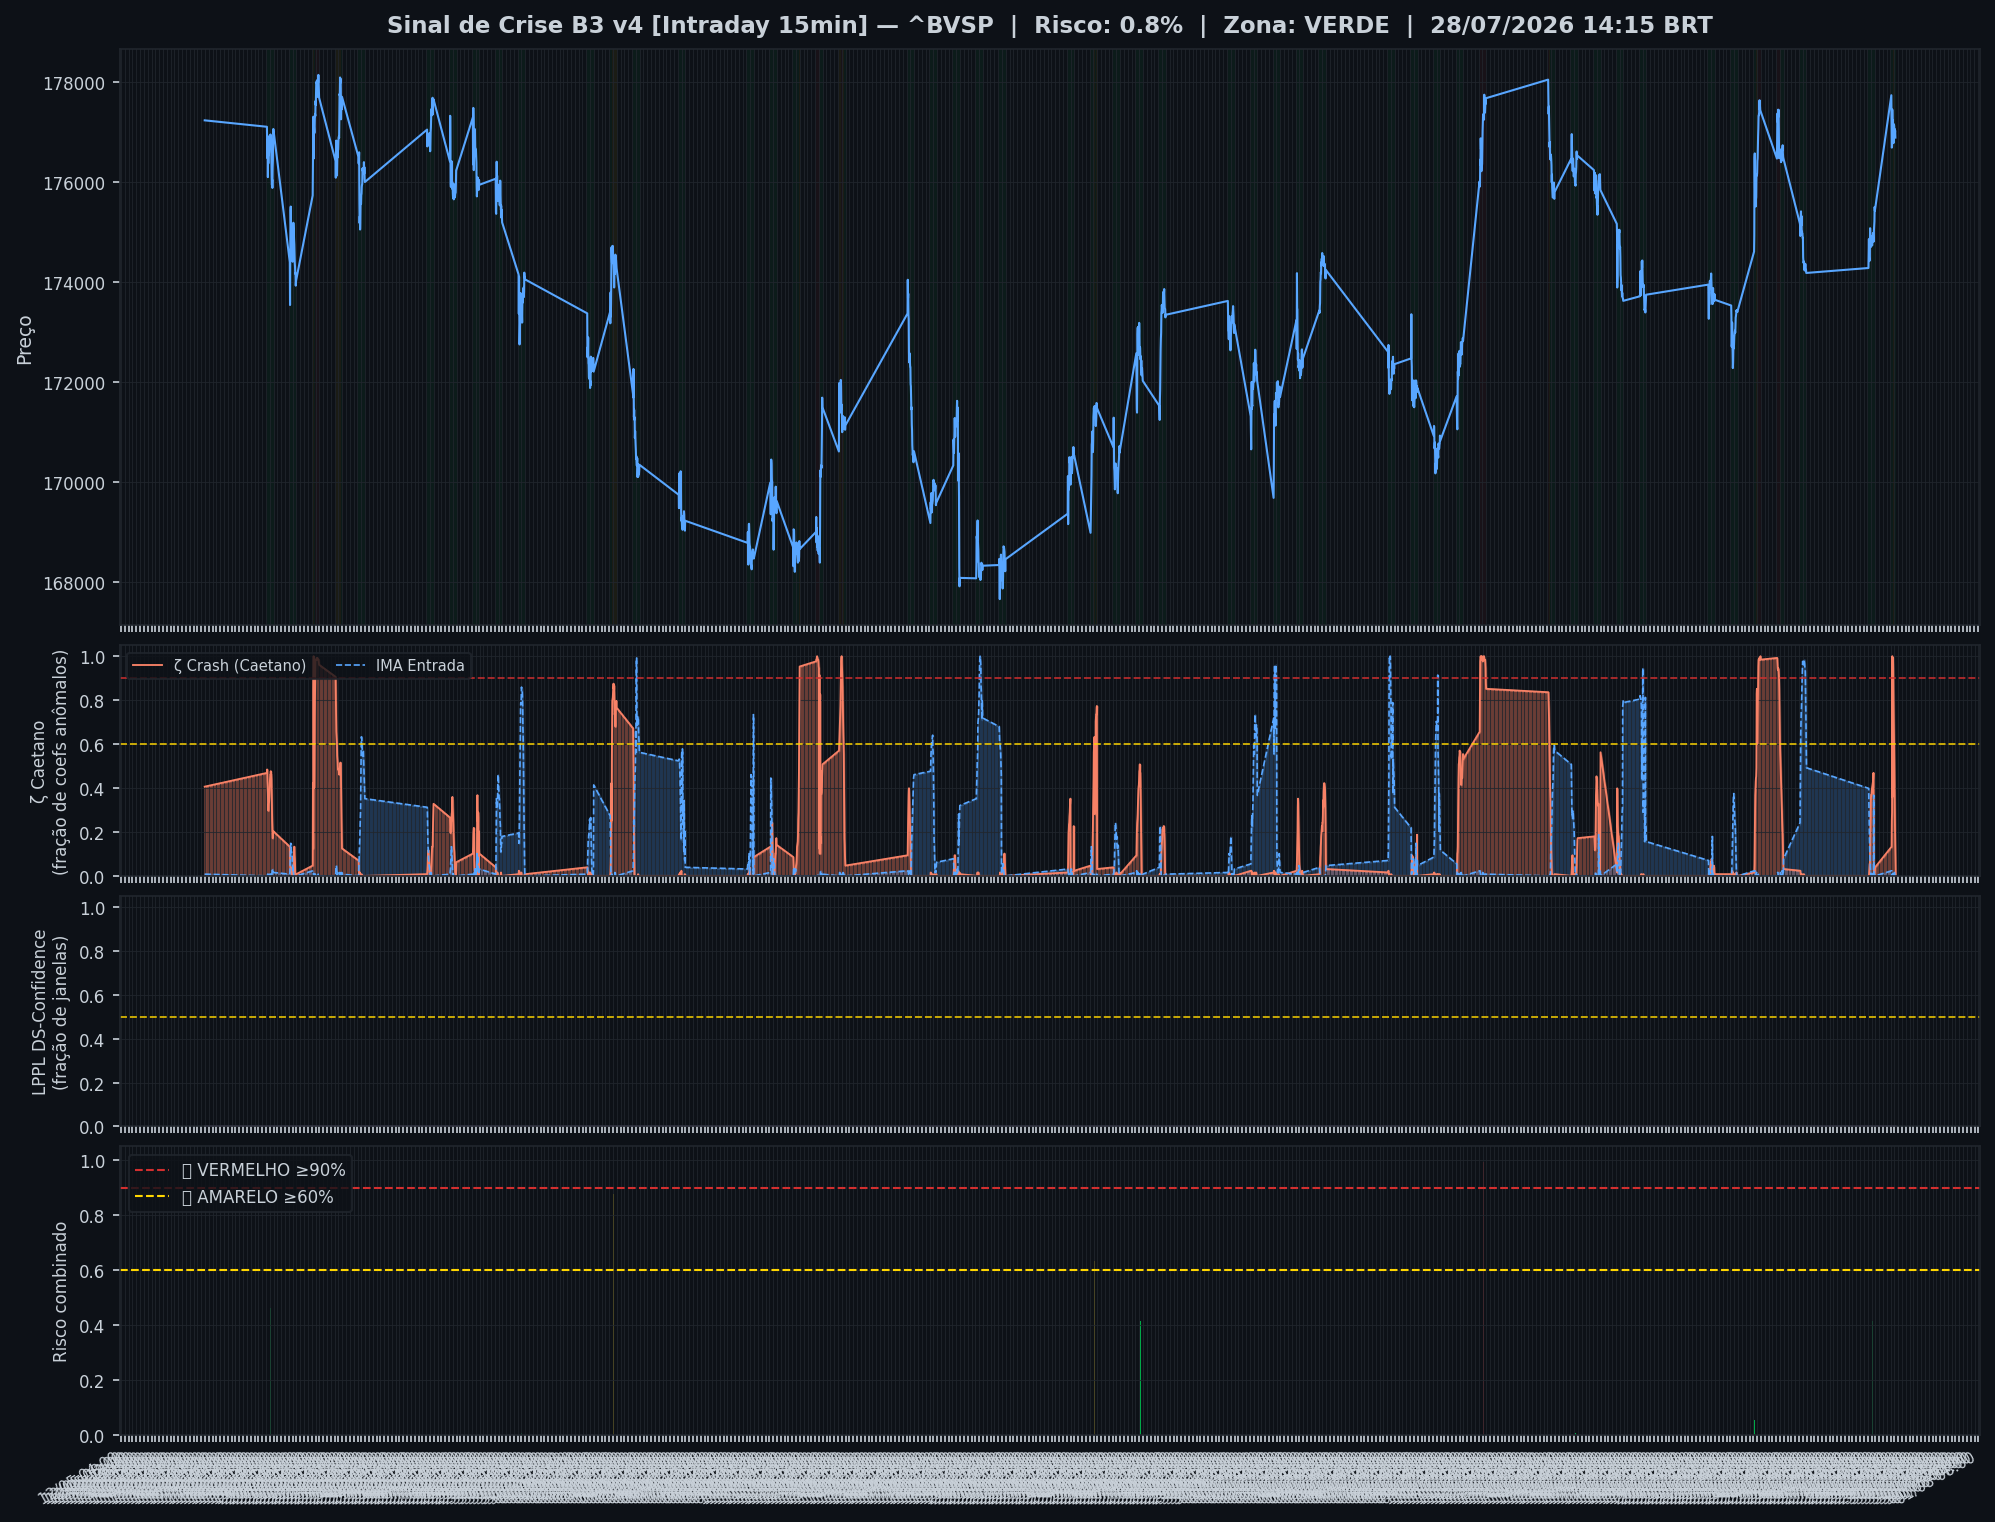
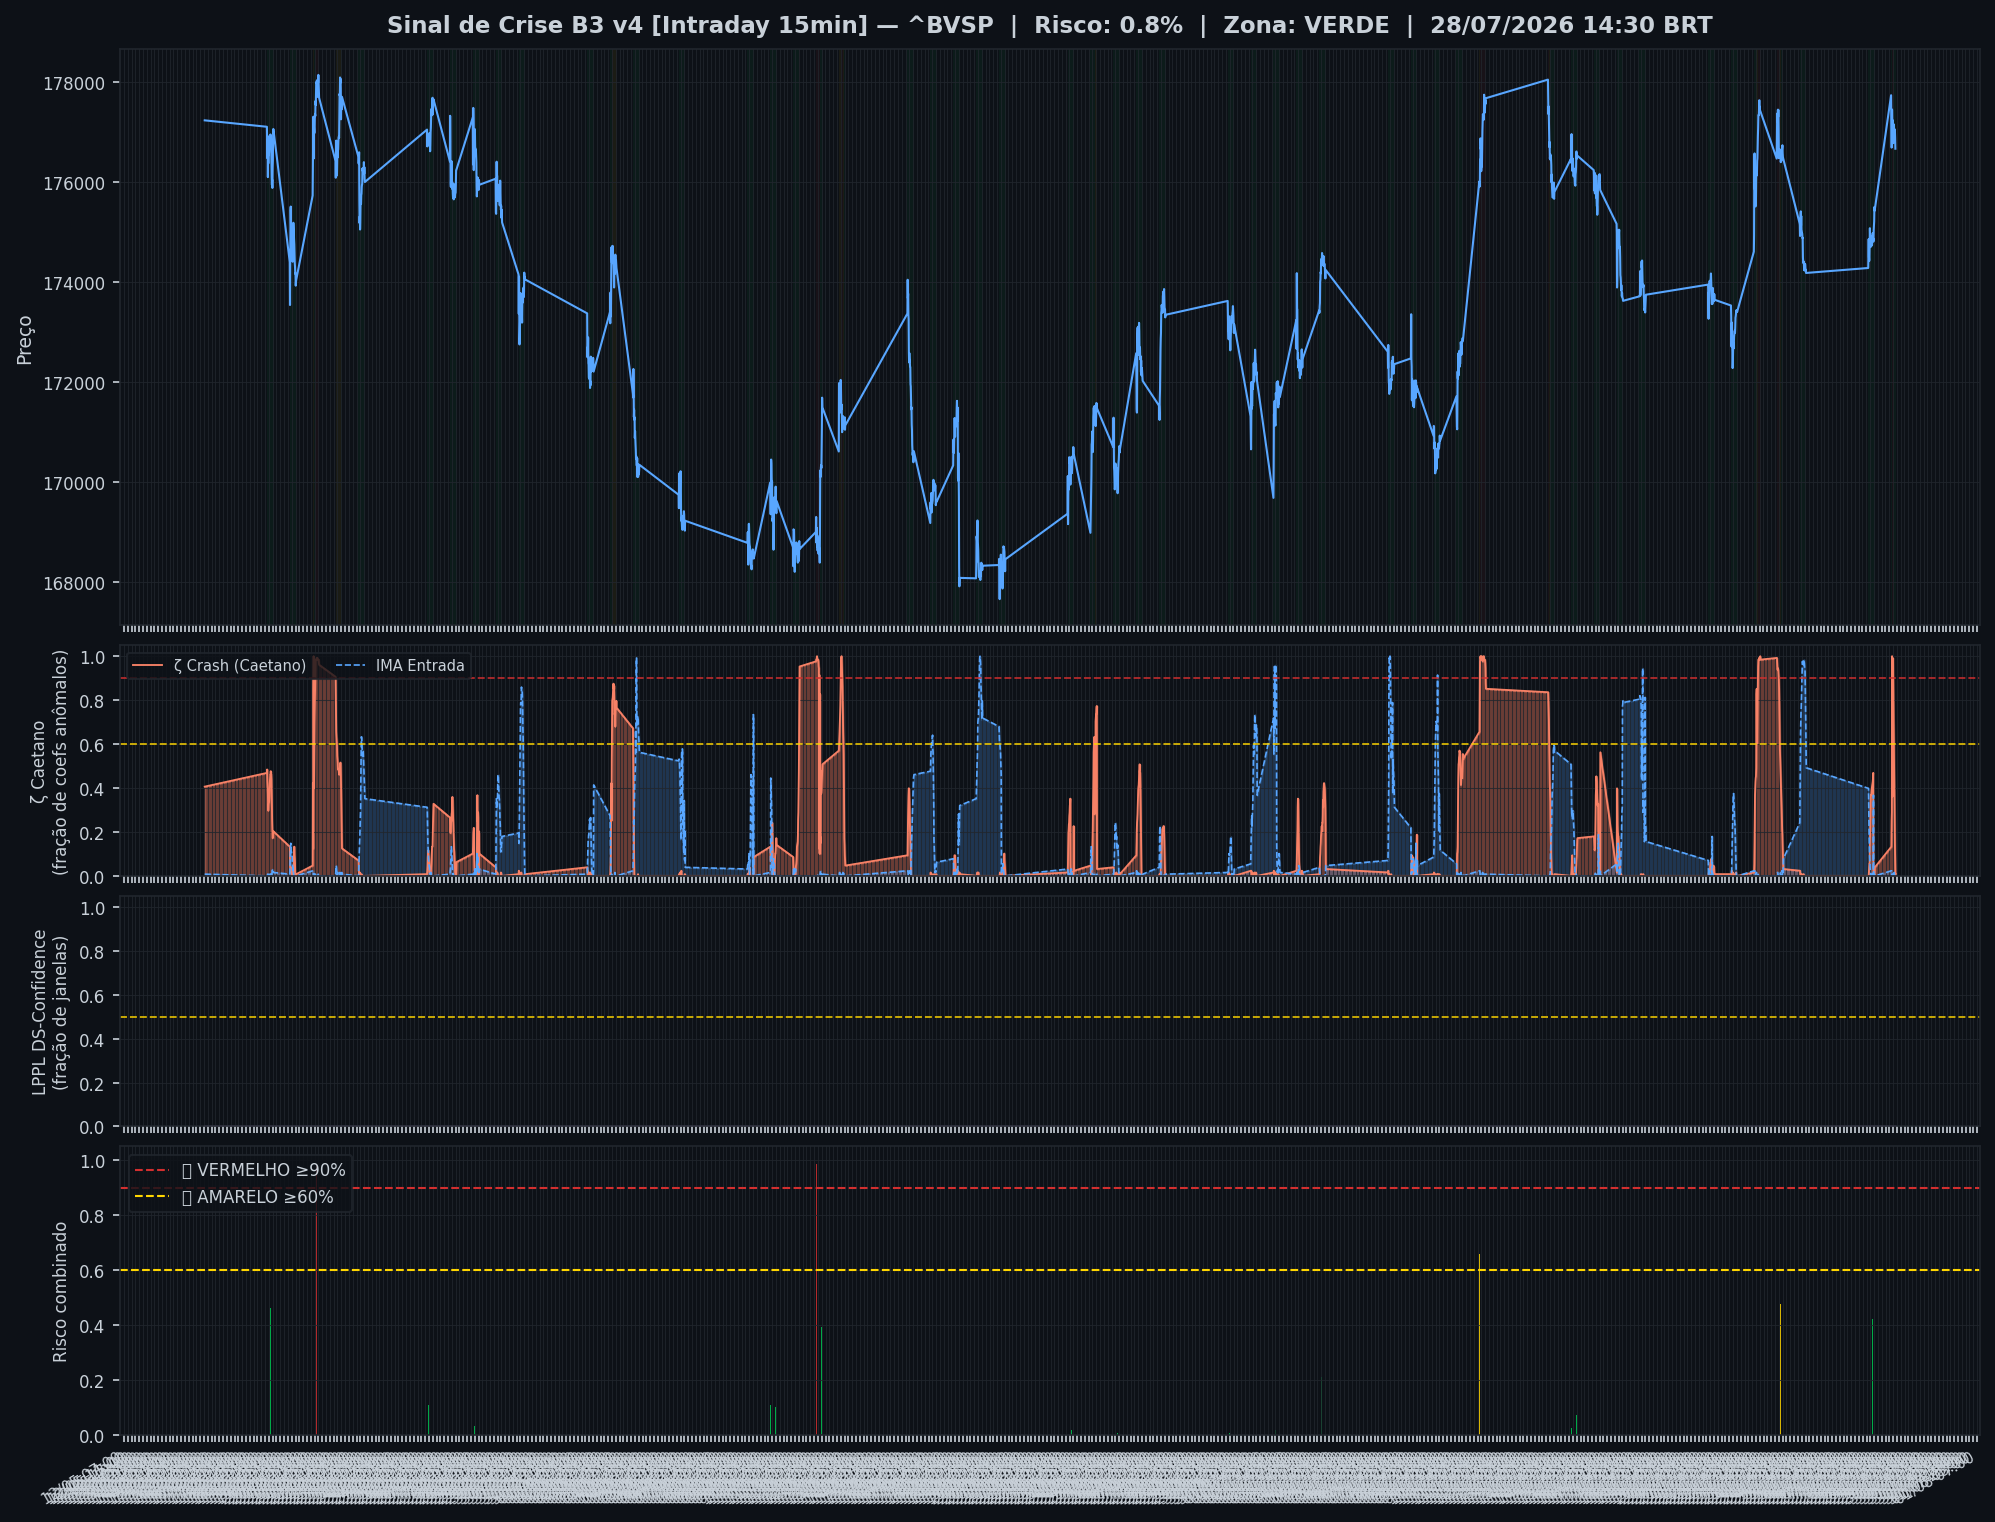
🤖 Auto: Sinal 28/07/2026 15:15

Changed region(s): [[0.0932, 0.4323, 0.9634, 0.5867], [0.0311, 0.9264, 0.9945, 0.9882], [0.6216, 0.247, 0.6526, 0.2779]]

diff --git a/content/intraday/2026-07-28.md b/content/intraday/2026-07-28.md
@@ -1,10 +1,10 @@
 ---
-title: "🟢 Intraday 28/07/2026 14:15 BRT — VERDE"
+title: "🟢 Intraday 28/07/2026 14:30 BRT — VERDE"
 date: 2026-07-28
 tags: [intraday]
 ---
 
-> [!success] 🟢 **VERDE** — Risco 1% · ▼ -8 p.p. vs leitura anterior
+> [!success] 🟢 **VERDE** — Risco 1% · ＝ +0 p.p. vs leitura anterior
 > `░░░░░░░░░░░░░░░░░░░░`
 > Mercado sem sinais relevantes de estresse.
 
@@ -14,7 +14,7 @@ tags: [intraday]
 | 🔴 ζ Crash — severidade da queda em curso | **1%** |
 | 🔵 ζ Entrada — estrutura de fundo | 0% |
 | 🫧 LPPL DS-Confidence | 0% |
-| 📊 Ibovespa | 176.893 pts |
+| 📊 Ibovespa | 176.671 pts |
 
 ![Gráfico do sinal](../graficos/sinal_intraday.png)
 
@@ -22,6 +22,7 @@ tags: [intraday]
 
 | Data | Zona | Risco | IMA Crash | Entrada | LPPL |
 |---|---|---|---|---|---|
+| 2026-07-28 14:30 | 🟢 VERDE | **1%** | 1% | 0% | 0% |
 | 2026-07-28 14:15 | 🟢 VERDE | **1%** | 1% | 0% | 0% |
 | 2026-07-28 14:00 | 🟢 VERDE | **9%** | 9% | 0% | 0% |
 | 2026-07-28 13:45 | 🟢 VERDE | **15%** | 15% | 0% | 0% |
@@ -51,7 +52,6 @@ tags: [intraday]
 | 2026-07-27 14:45 | 🟢 VERDE | **45%** | 45% | 1% | 0% |
 | 2026-07-27 14:30 | 🟢 VERDE | **43%** | 43% | 0% | 0% |
 | 2026-07-27 14:15 | 🟢 VERDE | **42%** | 42% | 0% | 0% |
-| 2026-07-27 14:00 | 🟢 VERDE | **41%** | 41% | 0% | 0% |
 
 ## Monitor Multi-Ativo
 
@@ -59,37 +59,37 @@ tags: [intraday]
 
 | Zona | Ativo | Setor | IMA Crash | IMA Entrada |
 |---|---|---|---|---|
-| 🟢 | **USD/BRL** | Câmbio | 33.6% | 0.0% |
-| 🟢 | **ITAUUNIBANCO** | Financeiro | 8.6% | 24.2% |
-| 🟢 | **PETROBRAS** | Petróleo | 8.6% | 24.2% |
-| 🟢 | **PETROBRAS** | Petróleo | 8.6% | 24.2% |
-| 🟢 | **EMBRAER** | Outros | 8.6% | 24.2% |
-| 🟢 | **ULTRAPAR** | Outros | 8.6% | 24.2% |
-| 🟢 | **VALE** | Mineração | 4.7% | 28.1% |
-| 🟢 | **AXIA ENERGIA** | Energia | 4.7% | 28.1% |
+| 🟢 | **USD/BRL** | Câmbio | 39.1% | 0.0% |
+| 🟢 | **VALE** | Mineração | 33.6% | 0.0% |
+| 🟢 | **PETROBRAS** | Petróleo | 33.6% | 0.0% |
+| 🟢 | **AXIA ENERGIA** | Energia | 33.6% | 0.0% |
+| 🟢 | **SABESP** | Saneamento | 33.6% | 0.0% |
+| 🟢 | **ITAUSA** | Financeiro | 33.6% | 0.0% |
+| 🟢 | **B3** | Financeiro | 33.6% | 0.0% |
+| 🟢 | **WEG** | Industrial | 33.6% | 0.0% |
+| 🟢 | **AMBEV S/A** | Consumo | 33.6% | 0.0% |
+| 🟢 | **BTGP BANCO** | Financeiro | 33.6% | 0.0% |
+| 🟢 | **EMBRAER** | Outros | 33.6% | 0.0% |
+| 🟢 | **BRASIL** | Financeiro | 33.6% | 0.0% |
+| 🟢 | **ENEVA** | Energia | 33.6% | 0.0% |
+| 🟢 | **EQUATORIAL** | Energia | 33.6% | 0.0% |
+| 🟢 | **PRIO** | Petróleo | 33.6% | 0.0% |
+| 🟢 | **VIBRA** | Energia | 33.6% | 0.0% |
+| 🟢 | **LOCALIZA** | Aluguel | 33.6% | 0.0% |
+| 🟢 | **REDE D OR** | Saúde | 33.6% | 0.0% |
+| 🟢 | **GERDAU** | Siderurgia | 33.6% | 0.0% |
+| 🟢 | **SUZANO S.A.** | Papel/Celulose | 33.6% | 0.0% |
+| 🟢 | **TELEF BRASIL** | Outros | 33.6% | 0.0% |
+| 🟢 | **BBSEGURIDADE** | Financeiro | 33.6% | 0.0% |
+| 🟢 | **ITAUUNIBANCO** | Financeiro | 4.7% | 28.1% |
+| 🟢 | **PETROBRAS** | Petróleo | 4.7% | 28.1% |
 | 🟢 | **BRADESCO** | Financeiro | 4.7% | 28.1% |
-| 🟢 | **SABESP** | Saneamento | 4.7% | 28.1% |
-| 🟢 | **ITAUSA** | Financeiro | 4.7% | 28.1% |
-| 🟢 | **B3** | Financeiro | 4.7% | 28.1% |
-| 🟢 | **WEG** | Industrial | 4.7% | 28.1% |
-| 🟢 | **AMBEV S/A** | Consumo | 4.7% | 28.1% |
-| 🟢 | **BTGP BANCO** | Financeiro | 4.7% | 28.1% |
-| 🟢 | **BRASIL** | Financeiro | 4.7% | 28.1% |
-| 🟢 | **ENEVA** | Energia | 4.7% | 28.1% |
-| 🟢 | **EQUATORIAL** | Energia | 4.7% | 28.1% |
 | 🟢 | **COPEL** | Energia | 4.7% | 28.1% |
-| 🟢 | **PRIO** | Petróleo | 4.7% | 28.1% |
-| 🟢 | **VIBRA** | Energia | 4.7% | 28.1% |
-| 🟢 | **LOCALIZA** | Aluguel | 4.7% | 28.1% |
-| 🟢 | **REDE D OR** | Saúde | 4.7% | 28.1% |
-| 🟢 | **GERDAU** | Siderurgia | 4.7% | 28.1% |
-| 🟢 | **SUZANO S.A.** | Papel/Celulose | 4.7% | 28.1% |
-| 🟢 | **TELEF BRASIL** | Outros | 4.7% | 28.1% |
-| 🟢 | **BBSEGURIDADE** | Financeiro | 4.7% | 28.1% |
+| 🟢 | **ULTRAPAR** | Outros | 4.7% | 28.1% |
 
 ![Monitor multi-ativo](../graficos/multi_intraday.png)
 
-*Página atualizada em 28/07/2026 15:00 BRT (leitura da barra de 2026-07-28 14:15 BRT).*
+*Página atualizada em 28/07/2026 15:15 BRT (leitura da barra de 2026-07-28 14:30 BRT).*
 
 > [!info]- Como interpretar (clique para expandir)
 > - **ζ Crash**: fração dos coeficientes wavelet acima do corte (Caetano & Yoneyama 2009). Escala absoluta: ζ=0,90 = 90% dos coeficientes anômalos — historicamente, quedas com ζ≥0,90 foram mais fundas e mais longas. **Mede a severidade do movimento em curso, não prevê o início da queda.**

diff --git a/content/index.md b/content/index.md
@@ -8,9 +8,9 @@ tags: [home]
 
 Monitoramento diário e intraday do Ibovespa — **IMA Wavelet** (Prof. Marco Antonio Leonel Caetano, ITA/INSPER) + **LPPL DS-Confidence** (Prof. Didier Sornette, ETH-Zurich).
 
-*Última atualização: 28/07/2026 15:00 BRT · ^BVSP · Intraday 15min · v4*
+*Última atualização: 28/07/2026 15:15 BRT · ^BVSP · Intraday 15min · v4*
 
-> [!success] 🟢 **VERDE** — Risco 1% · ▼ -8 p.p. vs leitura anterior
+> [!success] 🟢 **VERDE** — Risco 1% · ＝ +0 p.p. vs leitura anterior
 > `░░░░░░░░░░░░░░░░░░░░`
 > Mercado sem sinais relevantes de estresse.
 
@@ -20,7 +20,7 @@ Monitoramento diário e intraday do Ibovespa — **IMA Wavelet** (Prof. Marco An
 | 🔴 ζ Crash — severidade da queda em curso | **1%** |
 | 🔵 ζ Entrada — estrutura de fundo | 0% |
 | 🫧 LPPL DS-Confidence | 0% |
-| 📊 Ibovespa | 176.893 pts |
+| 📊 Ibovespa | 176.671 pts |
 
 **Multi-ativo:** 0% em tensão (0🔴 0🟡 de 27 ativos)
 

diff --git a/content/historico.md b/content/historico.md
@@ -7,6 +7,7 @@ tags: [historico]
 
 | Data | Modo | Zona | Risco | IMA | LPPL |
 |---|---|---|---|---|---|
+| 2026-07-28 14:30 | intraday | 🟢 VERDE | 1% | 1% | 0% |
 | 2026-07-28 14:15 | intraday | 🟢 VERDE | 1% | 1% | 0% |
 | 2026-07-28 14:00 | intraday | 🟢 VERDE | 9% | 9% | 0% |
 | 2026-07-28 13:45 | intraday | 🟢 VERDE | 15% | 15% | 0% |
